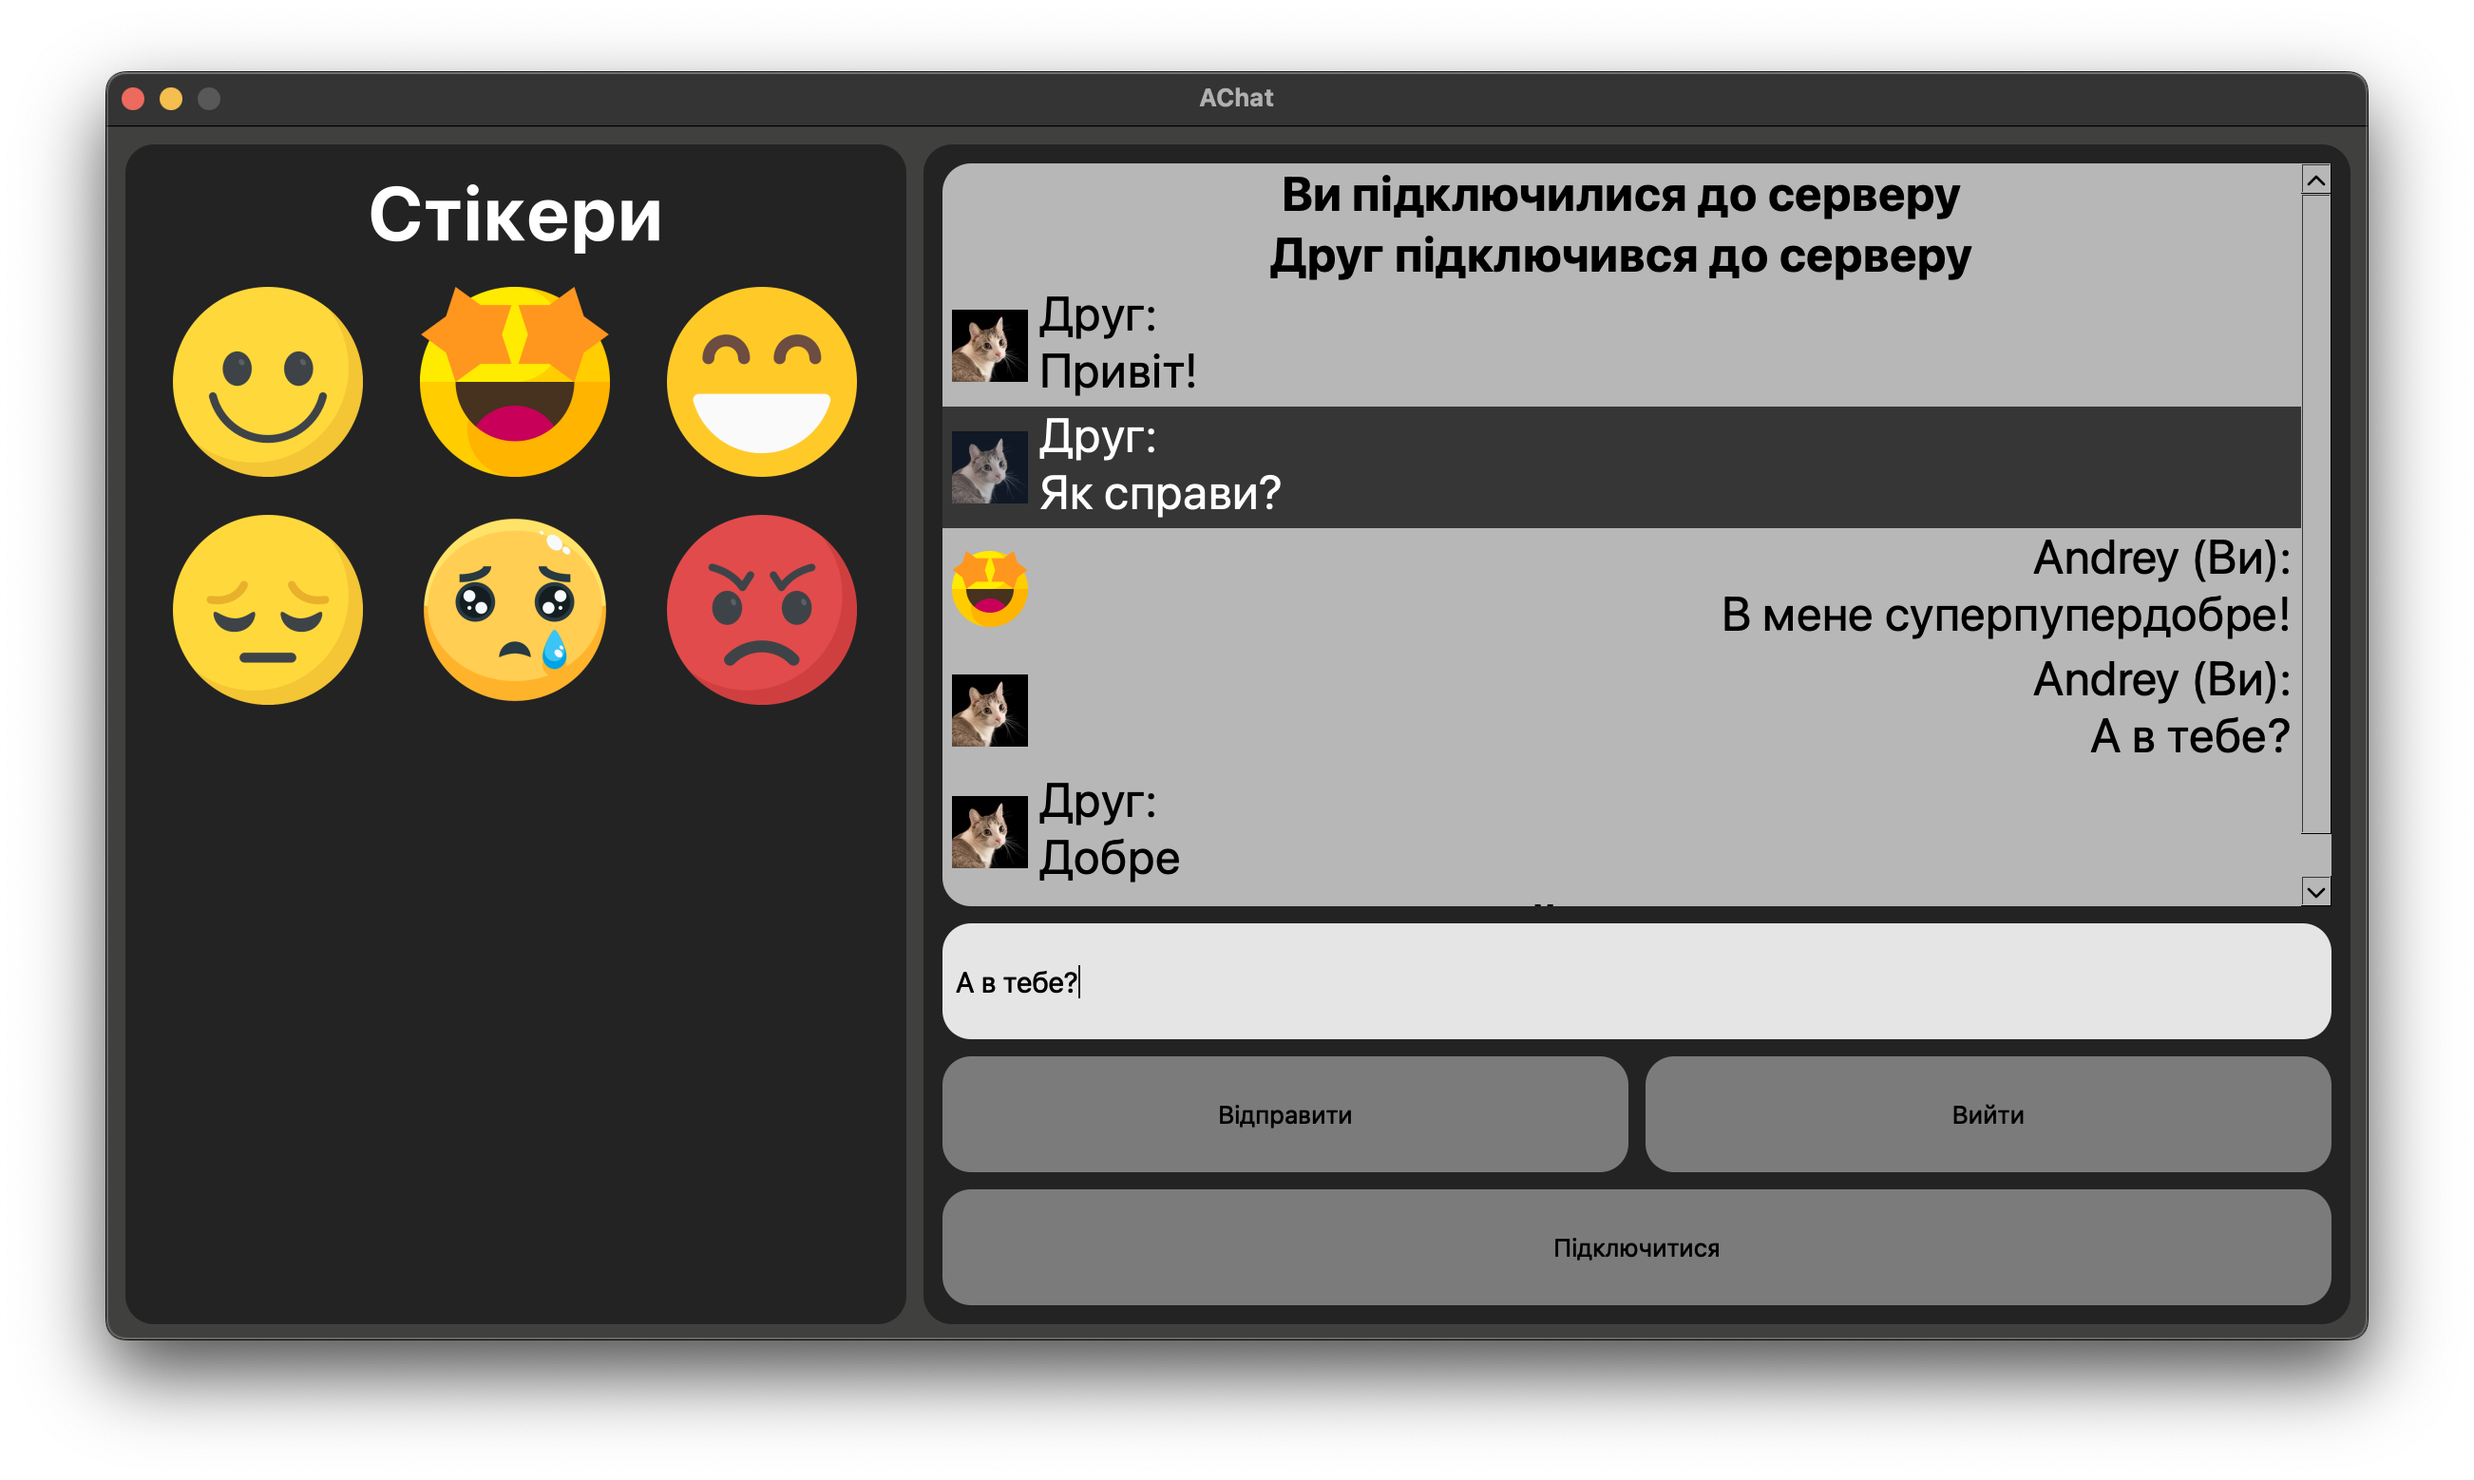
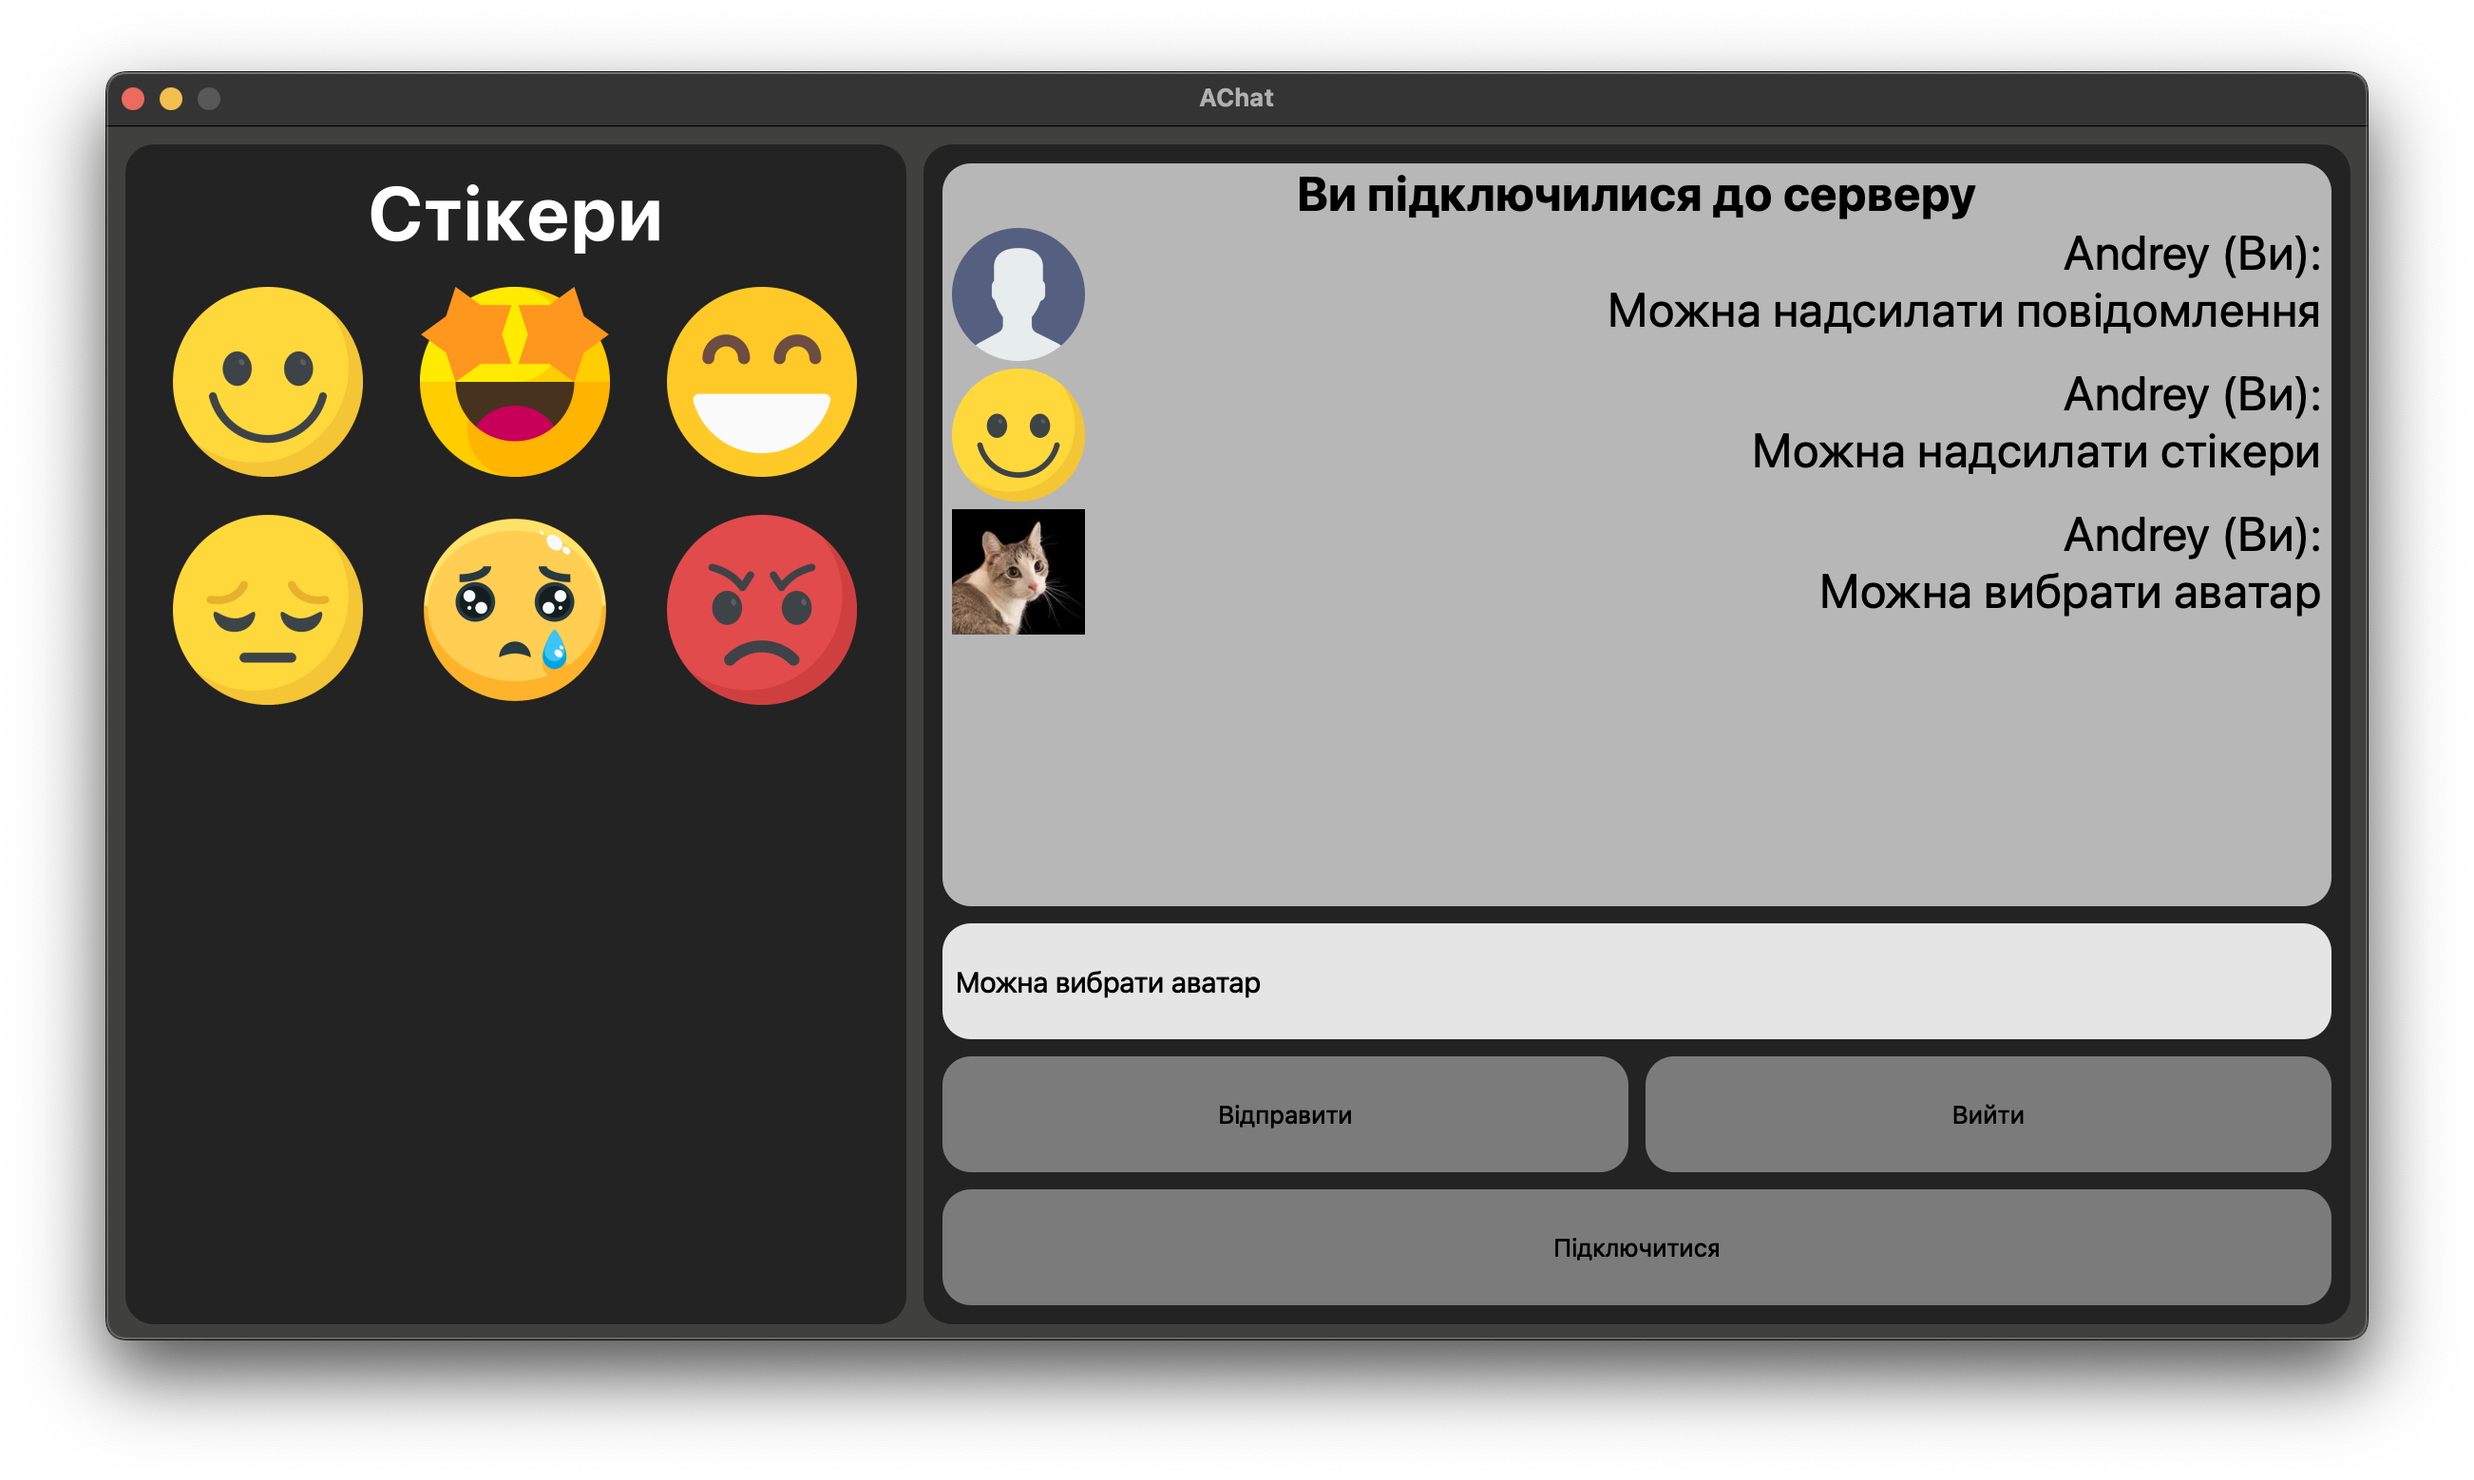
Збільшити розмір іконки повідомлення

Changed region(s): [[0.3733, 0.1232, 0.9332, 0.6162], [0.3733, 0.647, 0.4977, 0.6778]]

diff --git a/client/windows/main_window.py b/client/windows/main_window.py
@@ -3,7 +3,7 @@
 from os.path import join
 from PyQt6.QtWidgets import QMainWindow, QListWidgetItem
 from PyQt6.QtGui import QFont, QIcon, QPixmap
-from PyQt6.QtCore import Qt
+from PyQt6.QtCore import Qt, QSize
 from design import main_window
 from design import btn_locker
 from windows.connect_to_server_window import ConnectToServerWindow
@@ -22,6 +22,7 @@ class MainWindow(QMainWindow):
 
         self.design = main_window.MainWindowDesign()
         self.design.setupUi(self, language)
+        self.design.messages.setIconSize(QSize(70, 70))
         self.block_chat()
 
         self.selected_sticker = None
